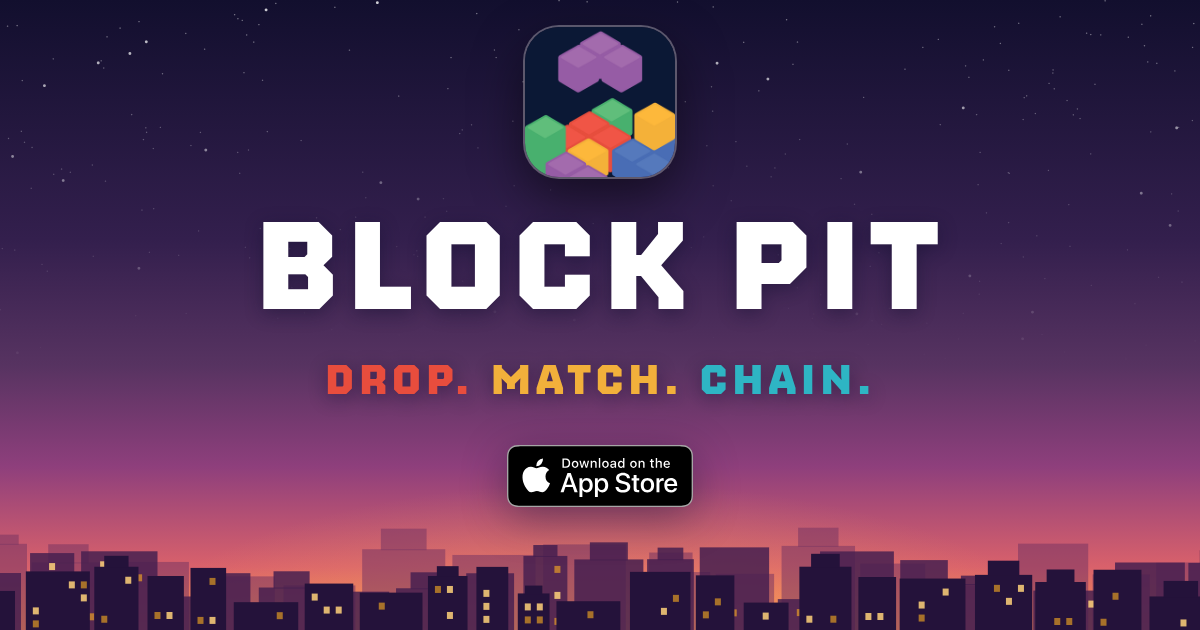
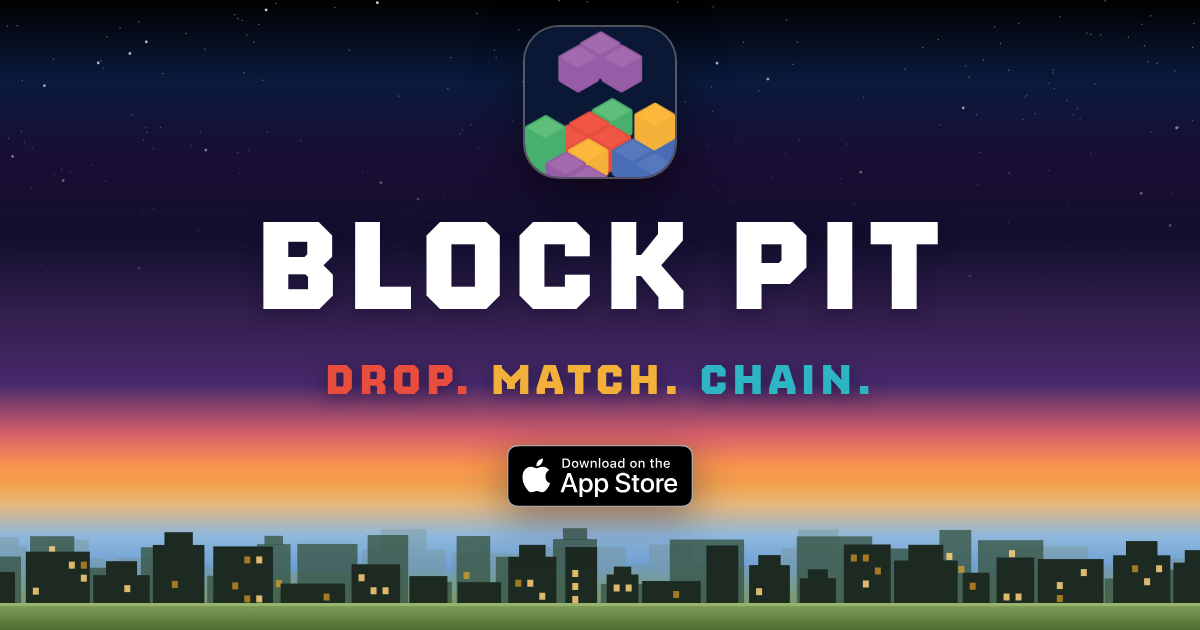
Share card: the game's sky from the ground to deep space
The background now follows the sky path in js/sky.js from bottom to
top: green ground with a grass line, the pixel city in the closing
section's greens, dawn blues, sunset sand, orange and rose, twilight
purples, and deep space at the top. The dark stops get more height so
the title and tagline stay on twilight; stars fade out below it.

Claude-Session: https://claude.ai/code/session_01RgjWCtiQqPgHMZFSD4kPHf

diff --git a/index.html b/index.html
@@ -7,23 +7,23 @@
   <meta name="description" content="Match colors, trigger chain reactions, and rise from the ground to deep space. Block Pit is out now on the App Store for iPhone.">
   <meta name="theme-color" content="#000000">
   <link rel="canonical" href="https://r4mh8wp5dj-arch.github.io/">
-  <link rel="icon" type="image/png" sizes="32x32" href="assets/img/favicon-32.png?v=34a5871">
-  <link rel="icon" type="image/png" sizes="16x16" href="assets/img/favicon-16.png?v=34a5871">
-  <link rel="apple-touch-icon" sizes="180x180" href="assets/img/apple-touch-icon.png?v=34a5871">
+  <link rel="icon" type="image/png" sizes="32x32" href="assets/img/favicon-32.png?v=038294b">
+  <link rel="icon" type="image/png" sizes="16x16" href="assets/img/favicon-16.png?v=038294b">
+  <link rel="apple-touch-icon" sizes="180x180" href="assets/img/apple-touch-icon.png?v=038294b">
   <link rel="manifest" href="site.webmanifest">
   <meta property="og:type" content="website">
   <meta property="og:site_name" content="Block Pit">
   <meta property="og:url" content="https://r4mh8wp5dj-arch.github.io/">
   <meta property="og:title" content="Block Pit">
   <meta property="og:description" content="Match colors, trigger chain reactions, and rise from the ground to deep space. Block Pit is out now on the App Store for iPhone.">
-  <meta property="og:image" content="https://r4mh8wp5dj-arch.github.io/assets/img/share.png?v=34a5871">
+  <meta property="og:image" content="https://r4mh8wp5dj-arch.github.io/assets/img/share.png?v=038294b">
   <meta property="og:image:width" content="1200">
   <meta property="og:image:height" content="630">
-  <meta property="og:image:alt" content="The Block Pit app icon above the title BLOCK PIT, the tagline Drop. Match. Chain. and a Download on the App Store badge, on a twilight-to-sunset sky over a pixel city skyline.">
+  <meta property="og:image:alt" content="The Block Pit app icon above the title BLOCK PIT, the tagline Drop. Match. Chain. and a Download on the App Store badge, on the game\'s sky from green ground and a city skyline up through sunset to deep space.">
   <meta name="twitter:card" content="summary_large_image">
   <meta name="twitter:title" content="Block Pit">
   <meta name="twitter:description" content="Match colors, trigger chain reactions, and rise from the ground to deep space. Block Pit is out now on the App Store for iPhone.">
-  <meta name="twitter:image" content="https://r4mh8wp5dj-arch.github.io/assets/img/share.png?v=34a5871">
+  <meta name="twitter:image" content="https://r4mh8wp5dj-arch.github.io/assets/img/share.png?v=038294b">
   <script type="application/ld+json">
   {
     "@context": "https://schema.org",
@@ -31,7 +31,7 @@
     "name": "Block Pit",
     "description": "Match colors, trigger chain reactions, and rise from the ground to deep space. A 3D block puzzle, out now on iPhone.",
     "url": "https://r4mh8wp5dj-arch.github.io/",
-    "image": "https://r4mh8wp5dj-arch.github.io/assets/img/share.png?v=34a5871",
+    "image": "https://r4mh8wp5dj-arch.github.io/assets/img/share.png?v=038294b",
     "genre": "Puzzle",
     "gamePlatform": "iOS",
     "operatingSystem": "iOS",
@@ -41,13 +41,13 @@
   }
   </script>
   <link rel="preload" href="assets/fonts/Nippo-Variable.ttf" as="font" type="font/ttf" crossorigin>
-  <link rel="stylesheet" href="styles.css?v=34a5871">
-  <link rel="stylesheet" href="mobile.css?v=34a5871" media="(max-width: 700px), (max-height: 500px) and (orientation: landscape)">
-  <script src="js/sky.js?v=34a5871"></script>
-  <script src="js/iso.js?v=34a5871" defer></script>
-  <script src="js/site.js?v=34a5871" defer></script>
-  <script src="js/play.js?v=34a5871" defer></script>
-  <script src="js/dock.js?v=34a5871" defer></script>
+  <link rel="stylesheet" href="styles.css?v=038294b">
+  <link rel="stylesheet" href="mobile.css?v=038294b" media="(max-width: 700px), (max-height: 500px) and (orientation: landscape)">
+  <script src="js/sky.js?v=038294b"></script>
+  <script src="js/iso.js?v=038294b" defer></script>
+  <script src="js/site.js?v=038294b" defer></script>
+  <script src="js/play.js?v=038294b" defer></script>
+  <script src="js/dock.js?v=038294b" defer></script>
 </head>
 <body class="home">
   <svg class="sprite" aria-hidden="true" focusable="false">
@@ -56,7 +56,7 @@
     <symbol id="i-facebook" viewBox="0 0 24 24"><path d="M9.101 23.691v-7.98H6.627v-3.667h2.474v-1.58c0-4.085 1.848-5.978 5.858-5.978.401 0 .955.042 1.468.103a8.68 8.68 0 0 1 1.141.195v3.325a8.623 8.623 0 0 0-.653-.036 26.805 26.805 0 0 0-.733-.009c-.707 0-1.259.096-1.675.309a1.686 1.686 0 0 0-.679.622c-.258.42-.374.995-.374 1.752v1.297h3.919l-.386 2.103-.287 1.564h-3.246v8.245C19.396 23.238 24 18.179 24 12.044c0-6.627-5.373-12-12-12s-12 5.373-12 12c0 5.628 3.874 10.35 9.101 11.647Z"/></symbol>
   </svg>
   <header class="bar">
-    <a class="mark" href="./" aria-label="Block Pit home"><img src="assets/img/favicon-64.png?v=34a5871" alt="" width="28" height="28"><span>Block Pit</span></a>
+    <a class="mark" href="./" aria-label="Block Pit home"><img src="assets/img/favicon-64.png?v=038294b" alt="" width="28" height="28"><span>Block Pit</span></a>
     <nav aria-label="Site">
       <a class="nav-x" href="#how">How to play</a>
       <a href="contact.html">Contact</a>
@@ -156,7 +156,7 @@
 
     <section class="end">
       <div class="end-in" data-ink>
-        <img class="icon" src="assets/img/logo-320.png?v=34a5871" alt="Block Pit app icon" width="112" height="112">
+        <img class="icon" src="assets/img/logo-320.png?v=038294b" alt="Block Pit app icon" width="112" height="112">
         <h2>The pit is open.</h2>
         <p>On iPhone. Made by a solo developer.</p>
         <div class="cta-row">
@@ -193,7 +193,7 @@
   </footer>
 
   <aside class="dock" aria-label="Get Block Pit">
-    <img class="dock-icon" src="assets/img/logo-320.png?v=34a5871" alt="" width="40" height="40">
+    <img class="dock-icon" src="assets/img/logo-320.png?v=038294b" alt="" width="40" height="40">
     <p><b>Block Pit</b><small>Out now on iPhone</small></p>
     <a class="appstore" data-appstore href="https://apps.apple.com/app/id[APP_ID]"><img src="assets/img/badges/app-store-black.svg" alt="Download Block Pit on the App Store" width="120" height="40"></a>
   </aside>

diff --git a/privacy.html b/privacy.html
@@ -7,28 +7,28 @@
   <meta name="description" content="Privacy Policy for the Block Pit iOS game: what data is collected, how advertising and analytics work, and how to exercise your GDPR, KVKK and CCPA rights.">
   <meta name="theme-color" content="#000000">
   <link rel="canonical" href="https://r4mh8wp5dj-arch.github.io/privacy.html">
-  <link rel="icon" type="image/png" sizes="32x32" href="assets/img/favicon-32.png?v=34a5871">
-  <link rel="icon" type="image/png" sizes="16x16" href="assets/img/favicon-16.png?v=34a5871">
-  <link rel="apple-touch-icon" sizes="180x180" href="assets/img/apple-touch-icon.png?v=34a5871">
+  <link rel="icon" type="image/png" sizes="32x32" href="assets/img/favicon-32.png?v=038294b">
+  <link rel="icon" type="image/png" sizes="16x16" href="assets/img/favicon-16.png?v=038294b">
+  <link rel="apple-touch-icon" sizes="180x180" href="assets/img/apple-touch-icon.png?v=038294b">
   <link rel="manifest" href="site.webmanifest">
   <meta property="og:type" content="website">
   <meta property="og:site_name" content="Block Pit">
   <meta property="og:url" content="https://r4mh8wp5dj-arch.github.io/privacy.html">
   <meta property="og:title" content="Block Pit Privacy Policy">
   <meta property="og:description" content="How Block Pit handles your data, advertising, analytics and your rights.">
-  <meta property="og:image" content="https://r4mh8wp5dj-arch.github.io/assets/img/share.png?v=34a5871">
+  <meta property="og:image" content="https://r4mh8wp5dj-arch.github.io/assets/img/share.png?v=038294b">
   <meta property="og:image:width" content="1200">
   <meta property="og:image:height" content="630">
   <meta property="og:image:alt" content="Block Pit: blocks stacked in a glowing pit under a starry sky, with the tagline Drop. Match. Chain. and a Download on the App Store badge.">
   <meta name="twitter:card" content="summary_large_image">
   <meta name="twitter:title" content="Block Pit Privacy Policy">
   <meta name="twitter:description" content="How Block Pit handles your data, advertising, analytics and your rights.">
-  <meta name="twitter:image" content="https://r4mh8wp5dj-arch.github.io/assets/img/share.png?v=34a5871">
+  <meta name="twitter:image" content="https://r4mh8wp5dj-arch.github.io/assets/img/share.png?v=038294b">
   <link rel="preload" href="assets/fonts/Nippo-Variable.ttf" as="font" type="font/ttf" crossorigin>
-  <link rel="stylesheet" href="styles.css?v=34a5871">
-  <link rel="stylesheet" href="mobile.css?v=34a5871" media="(max-width: 700px), (max-height: 500px) and (orientation: landscape)">
-  <script src="js/sky.js?v=34a5871"></script>
-  <script src="js/toc.js?v=34a5871" defer></script>
+  <link rel="stylesheet" href="styles.css?v=038294b">
+  <link rel="stylesheet" href="mobile.css?v=038294b" media="(max-width: 700px), (max-height: 500px) and (orientation: landscape)">
+  <script src="js/sky.js?v=038294b"></script>
+  <script src="js/toc.js?v=038294b" defer></script>
 </head>
 <body>
   <svg class="sprite" aria-hidden="true" focusable="false">
@@ -37,7 +37,7 @@
     <symbol id="i-facebook" viewBox="0 0 24 24"><path d="M9.101 23.691v-7.98H6.627v-3.667h2.474v-1.58c0-4.085 1.848-5.978 5.858-5.978.401 0 .955.042 1.468.103a8.68 8.68 0 0 1 1.141.195v3.325a8.623 8.623 0 0 0-.653-.036 26.805 26.805 0 0 0-.733-.009c-.707 0-1.259.096-1.675.309a1.686 1.686 0 0 0-.679.622c-.258.42-.374.995-.374 1.752v1.297h3.919l-.386 2.103-.287 1.564h-3.246v8.245C19.396 23.238 24 18.179 24 12.044c0-6.627-5.373-12-12-12s-12 5.373-12 12c0 5.628 3.874 10.35 9.101 11.647Z"/></symbol>
   </svg>
   <header class="bar">
-    <a class="mark" href="./" aria-label="Block Pit home"><img src="assets/img/favicon-64.png?v=34a5871" alt="" width="28" height="28"><span>Block Pit</span></a>
+    <a class="mark" href="./" aria-label="Block Pit home"><img src="assets/img/favicon-64.png?v=038294b" alt="" width="28" height="28"><span>Block Pit</span></a>
     <nav aria-label="Site">
       <a class="nav-x" href="./#how">How to play</a>
       <a href="contact.html">Contact</a>

diff --git a/contact.html b/contact.html
@@ -7,29 +7,29 @@
   <meta name="description" content="Get in touch with Block Pit by email or on Instagram.">
   <meta name="theme-color" content="#000000">
   <link rel="canonical" href="https://r4mh8wp5dj-arch.github.io/contact.html">
-  <link rel="icon" type="image/png" sizes="32x32" href="assets/img/favicon-32.png?v=34a5871">
-  <link rel="icon" type="image/png" sizes="16x16" href="assets/img/favicon-16.png?v=34a5871">
-  <link rel="apple-touch-icon" sizes="180x180" href="assets/img/apple-touch-icon.png?v=34a5871">
+  <link rel="icon" type="image/png" sizes="32x32" href="assets/img/favicon-32.png?v=038294b">
+  <link rel="icon" type="image/png" sizes="16x16" href="assets/img/favicon-16.png?v=038294b">
+  <link rel="apple-touch-icon" sizes="180x180" href="assets/img/apple-touch-icon.png?v=038294b">
   <link rel="manifest" href="site.webmanifest">
   <meta property="og:type" content="website">
   <meta property="og:site_name" content="Block Pit">
   <meta property="og:url" content="https://r4mh8wp5dj-arch.github.io/contact.html">
   <meta property="og:title" content="Contact Block Pit">
   <meta property="og:description" content="Questions, press or feedback about Block Pit: email or Instagram.">
-  <meta property="og:image" content="https://r4mh8wp5dj-arch.github.io/assets/img/share.png?v=34a5871">
+  <meta property="og:image" content="https://r4mh8wp5dj-arch.github.io/assets/img/share.png?v=038294b">
   <meta property="og:image:width" content="1200">
   <meta property="og:image:height" content="630">
   <meta property="og:image:alt" content="Block Pit: blocks stacked in a glowing pit under a starry sky, with the tagline Drop. Match. Chain. and a Download on the App Store badge.">
   <meta name="twitter:card" content="summary_large_image">
   <meta name="twitter:title" content="Contact Block Pit">
   <meta name="twitter:description" content="Questions, press or feedback about Block Pit: email or Instagram.">
-  <meta name="twitter:image" content="https://r4mh8wp5dj-arch.github.io/assets/img/share.png?v=34a5871">
+  <meta name="twitter:image" content="https://r4mh8wp5dj-arch.github.io/assets/img/share.png?v=038294b">
   <link rel="preload" href="assets/fonts/Nippo-Variable.ttf" as="font" type="font/ttf" crossorigin>
-  <link rel="stylesheet" href="styles.css?v=34a5871">
-  <link rel="stylesheet" href="mobile.css?v=34a5871" media="(max-width: 700px), (max-height: 500px) and (orientation: landscape)">
-  <script src="js/sky.js?v=34a5871"></script>
-  <script src="js/iso.js?v=34a5871" defer></script>
-  <script src="js/hello.js?v=34a5871" defer></script>
+  <link rel="stylesheet" href="styles.css?v=038294b">
+  <link rel="stylesheet" href="mobile.css?v=038294b" media="(max-width: 700px), (max-height: 500px) and (orientation: landscape)">
+  <script src="js/sky.js?v=038294b"></script>
+  <script src="js/iso.js?v=038294b" defer></script>
+  <script src="js/hello.js?v=038294b" defer></script>
 </head>
 <body>
   <svg class="sprite" aria-hidden="true" focusable="false">
@@ -38,7 +38,7 @@
     <symbol id="i-facebook" viewBox="0 0 24 24"><path d="M9.101 23.691v-7.98H6.627v-3.667h2.474v-1.58c0-4.085 1.848-5.978 5.858-5.978.401 0 .955.042 1.468.103a8.68 8.68 0 0 1 1.141.195v3.325a8.623 8.623 0 0 0-.653-.036 26.805 26.805 0 0 0-.733-.009c-.707 0-1.259.096-1.675.309a1.686 1.686 0 0 0-.679.622c-.258.42-.374.995-.374 1.752v1.297h3.919l-.386 2.103-.287 1.564h-3.246v8.245C19.396 23.238 24 18.179 24 12.044c0-6.627-5.373-12-12-12s-12 5.373-12 12c0 5.628 3.874 10.35 9.101 11.647Z"/></symbol>
   </svg>
   <header class="bar">
-    <a class="mark" href="./" aria-label="Block Pit home"><img src="assets/img/favicon-64.png?v=34a5871" alt="" width="28" height="28"><span>Block Pit</span></a>
+    <a class="mark" href="./" aria-label="Block Pit home"><img src="assets/img/favicon-64.png?v=038294b" alt="" width="28" height="28"><span>Block Pit</span></a>
     <nav aria-label="Site">
       <a class="nav-x" href="./#how">How to play</a>
       <a href="contact.html">Contact</a>

diff --git a/tools/share.html b/tools/share.html
@@ -6,8 +6,9 @@
   <link rel="stylesheet" href="../styles.css">
   <style>
     html, body { margin: 0; width: 1200px; height: 630px; overflow: hidden; background: #050A1E; }
-    .card { position: relative; width: 1200px; height: 630px; overflow: hidden; background: radial-gradient(ellipse 60% 45% at 50% 108%, rgba(255, 179, 92, .55), transparent 70%), linear-gradient(180deg, #120F2E 0%, #331F4D 38%, #573361 58%, #8E3F7C 74%, #D9616B 90%, #FA944D 100%); }
-    #city { position: absolute; left: 0; bottom: 0; width: 1200px; height: 120px; }
+    .card { position: relative; width: 1200px; height: 630px; overflow: hidden; background: linear-gradient(180deg, #000000 0%, #0A1A3D 13%, #1A0D33 26%, #120F2E 38%, #331F4D 50%, #47296B 61%, #D9616B 69%, #FA944D 74%, #F2A24E 77%, #E8B77A 80%, #8FB8DC 85%, #6FA0D4 90%, #7E9C58 95%, #4E6B30 100%); }
+    #city { position: absolute; left: 0; bottom: 26px; width: 1200px; height: 100px; }
+    .ground { position: absolute; left: 0; right: 0; bottom: 0; height: 27px; background: linear-gradient(180deg, #96B46C 0, #96B46C 3px, #7E9C58 3px, #4E6B30 100%); }
     #stars { position: absolute; inset: 0; width: 1200px; height: 630px; }
     .copy { position: absolute; inset: 0; display: flex; flex-direction: column; align-items: center; justify-content: center; text-align: center; color: #fff; }
     .icon { width: 150px; height: 150px; border-radius: 34px; box-shadow: 0 0 0 2px rgba(255, 255, 255, .3), 0 20px 50px rgba(0, 0, 0, .5); }
@@ -16,13 +17,14 @@
     .tag b { font-weight: 700; }
     .badge { margin-top: 34px; height: 62px; width: auto; filter: drop-shadow(0 10px 22px rgba(18, 15, 46, .45)); }
     .copy { padding-bottom: 96px; }
-    h1, .tag { text-shadow: 0 4px 18px rgba(18, 15, 46, .45); }
+    h1, .tag { text-shadow: 0 4px 18px rgba(18, 15, 46, .55); }
   </style>
 </head>
 <body>
   <div class="card">
     <canvas id="stars"></canvas>
     <canvas id="city"></canvas>
+    <div class="ground"></div>
     <div class="copy">
       <img class="icon" src="../assets/img/logo-320.png" alt="">
       <h1>Block Pit</h1>
@@ -38,16 +40,16 @@
       for (var i = 0; i < 520; i++) {
         var x = R() * 1200, y = R() * 630, big = R() < 0.1, dx = (x - 600) / 420, dy = (y - 300) / 230;
         var calm = Math.min(1, Math.sqrt(dx * dx + dy * dy));
-        g.globalAlpha = (big ? 0.8 : 0.45) * Math.max(0, 1 - y / 380) * (0.25 + 0.75 * calm);
+        g.globalAlpha = (big ? 0.8 : 0.45) * Math.max(0, 1 - y / 330) * (0.25 + 0.75 * calm);
         g.fillStyle = '#fff';
         g.beginPath(); g.arc(x, y, big ? 1.4 : 0.7, 0, 6.2832); g.fill();
       }
       var cc = document.getElementById('city'), c = cc.getContext('2d');
-      cc.width = 2400; cc.height = 240; c.scale(2, 2);
-      [{ col: 'rgba(120,52,98,0.55)', min: 0.35, max: 0.75, bw: [40, 90], win: 0, s: 7 },
-       { col: 'rgba(70,32,80,0.85)', min: 0.25, max: 0.7, bw: [34, 80], win: 0.08, s: 19 },
-       { col: '#24123A', min: 0.18, max: 0.55, bw: [28, 70], win: 0.2, s: 41 }].forEach(function (L) {
-        seed = L.s; var x = -10, h = 120;
+      cc.width = 2400; cc.height = 200; c.scale(2, 2);
+      [{ col: 'rgba(120,150,150,0.45)', min: 0.3, max: 0.6, bw: [40, 90], win: 0, s: 7 },
+       { col: 'rgba(58,86,70,0.8)', min: 0.2, max: 0.75, bw: [34, 80], win: 0.08, s: 19 },
+       { col: '#1c2a22', min: 0.14, max: 0.6, bw: [28, 70], win: 0.22, s: 41 }].forEach(function (L) {
+        seed = L.s; var x = -10, h = 100;
         while (x < 1210) {
           var bw = L.bw[0] + R() * (L.bw[1] - L.bw[0]), bh = h * (L.min + R() * (L.max - L.min)), top = h - bh;
           c.fillStyle = L.col; c.fillRect(x, top, bw - 3, bh);

diff --git a/404.html b/404.html
@@ -7,15 +7,15 @@
   <meta name="description" content="This page does not exist. Head back to Block Pit.">
   <meta name="robots" content="noindex">
   <meta name="theme-color" content="#000000">
-  <link rel="icon" type="image/png" sizes="32x32" href="/assets/img/favicon-32.png?v=34a5871">
-  <link rel="icon" type="image/png" sizes="16x16" href="/assets/img/favicon-16.png?v=34a5871">
-  <link rel="apple-touch-icon" sizes="180x180" href="/assets/img/apple-touch-icon.png?v=34a5871">
+  <link rel="icon" type="image/png" sizes="32x32" href="/assets/img/favicon-32.png?v=038294b">
+  <link rel="icon" type="image/png" sizes="16x16" href="/assets/img/favicon-16.png?v=038294b">
+  <link rel="apple-touch-icon" sizes="180x180" href="/assets/img/apple-touch-icon.png?v=038294b">
   <link rel="preload" href="/assets/fonts/Nippo-Variable.ttf" as="font" type="font/ttf" crossorigin>
-  <link rel="stylesheet" href="/styles.css?v=34a5871">
-  <link rel="stylesheet" href="/mobile.css?v=34a5871" media="(max-width: 700px), (max-height: 500px) and (orientation: landscape)">
-  <script src="/js/sky.js?v=34a5871"></script>
-  <script src="/js/iso.js?v=34a5871" defer></script>
-  <script src="/js/lost.js?v=34a5871" defer></script>
+  <link rel="stylesheet" href="/styles.css?v=038294b">
+  <link rel="stylesheet" href="/mobile.css?v=038294b" media="(max-width: 700px), (max-height: 500px) and (orientation: landscape)">
+  <script src="/js/sky.js?v=038294b"></script>
+  <script src="/js/iso.js?v=038294b" defer></script>
+  <script src="/js/lost.js?v=038294b" defer></script>
 </head>
 <body>
   <main class="lost" data-ink>
